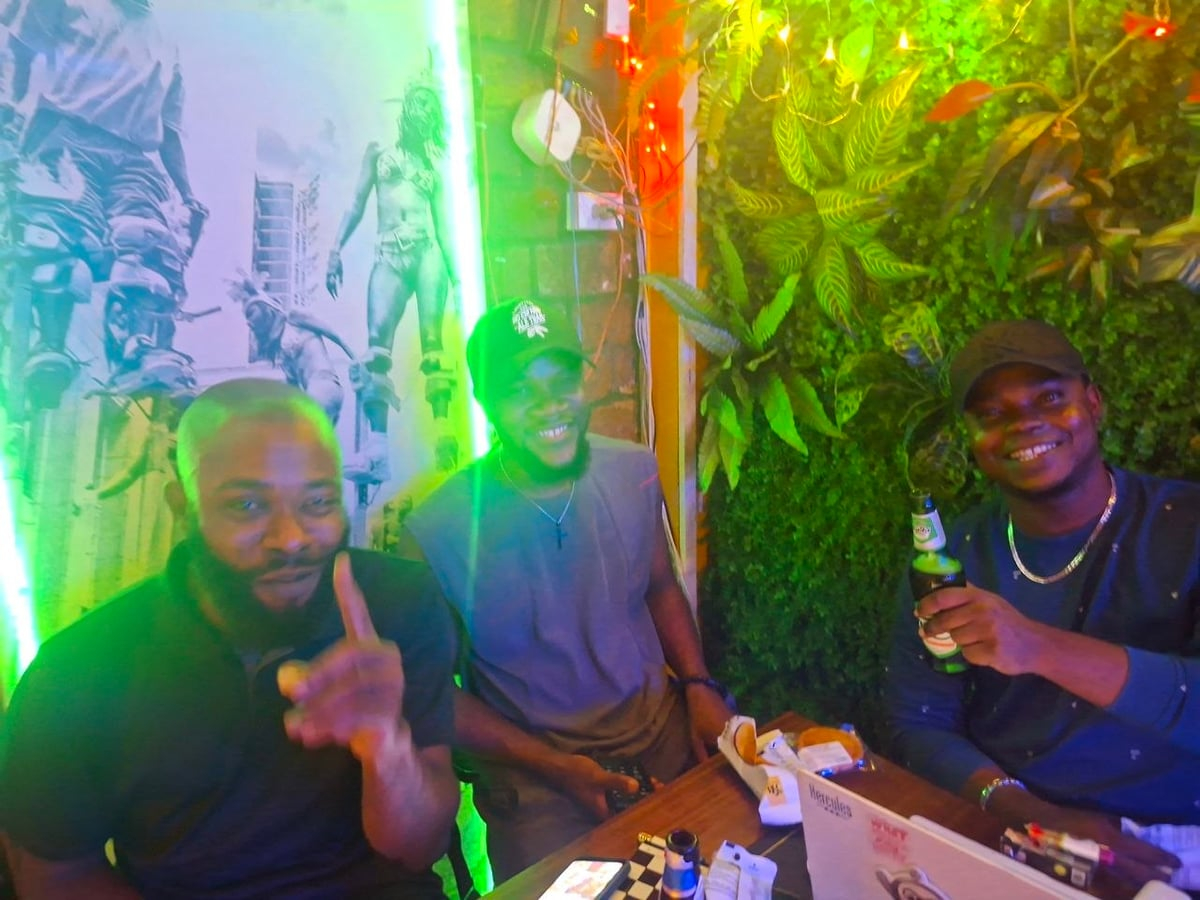
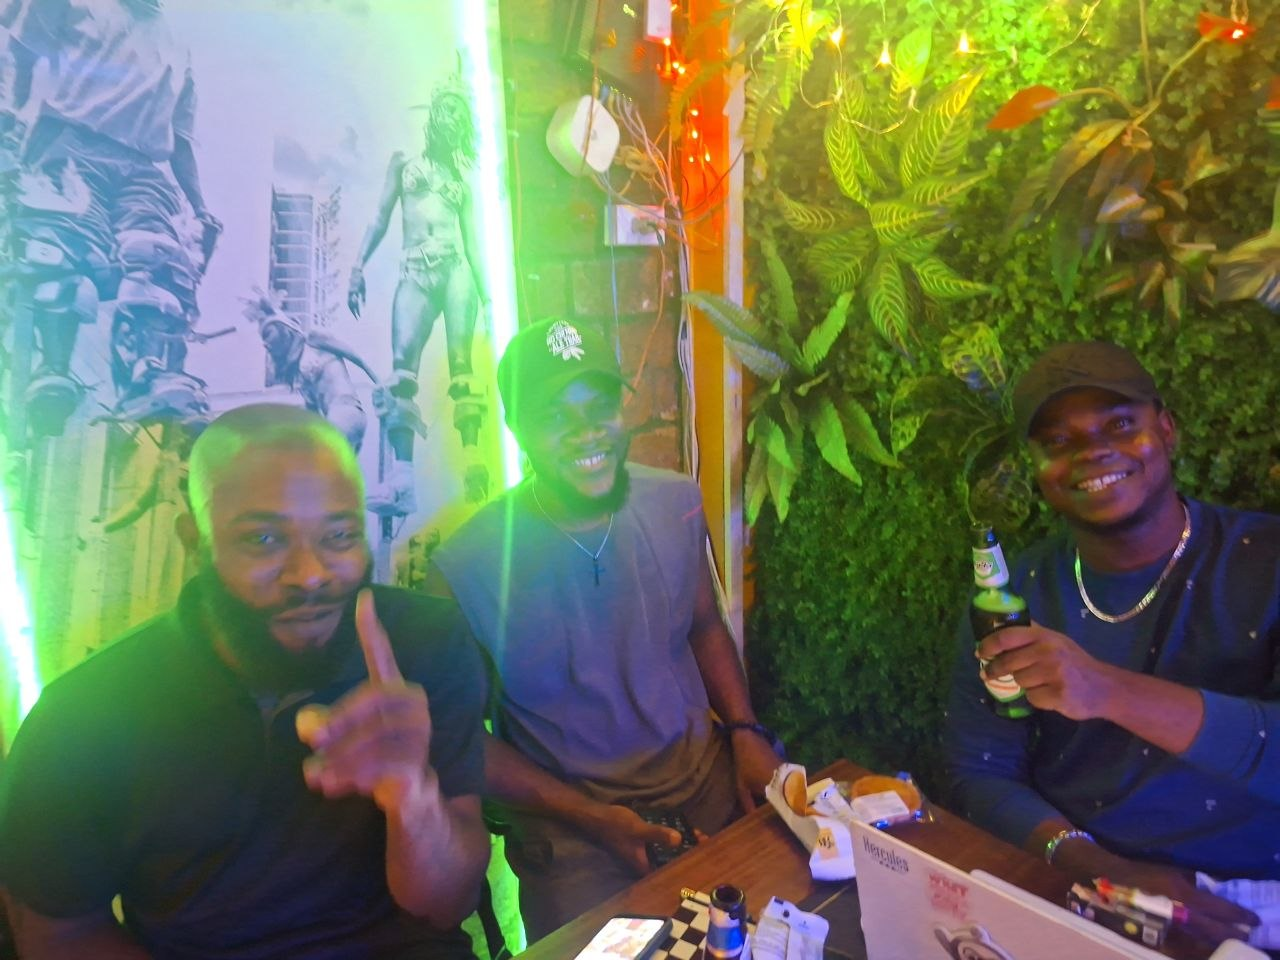
feat(mailala3): capture true branding — vibe photo gallery with bar atmosphere, dartboard, anti-drug poster

diff --git a/WEBSITE/mailala/index.html b/WEBSITE/mailala/index.html
@@ -84,7 +84,7 @@
 </nav>
 
 <section class="hero">
-      <div class="hero-bg" style="background-image:url('assets/images/6134195124376899495_121.jpg')" role="img" aria-label="Mai Lala reggae bar interior with warm neon lights"></div>
+      <div class="hero-bg" style="background-image:url('assets/images/6134195124376899531_121.jpg')" role="img" aria-label="Mailala reggae bar interior with colorful neon lights and mural"></div>
   <div class="hero-overlay"></div>
   <div class="hero-bigup">🔥 Big Up</div>
   <div class="hero-content">
@@ -103,6 +103,7 @@
         <span>🔥 Big Up</span>
         <span>🚫 Say No to Drugs</span>
         <span>🌿 Real Vibes Only</span>
+        <span>🪴 Plants Are Not Ashtrays</span>
       </div>
       <div class="cta-group">
         <a href="#book" class="btn btn-primary">Book Your Stay</a>
@@ -131,38 +132,24 @@
 <section class="vibe-section" id="vibe">
   <div class="container">
     <div class="badge">Love Up · Bless Up · Irie Up · Big Up</div>
-    <h2>Saigon's Premier<br><span class="highlight">Reggae Rooftop</span></h2>
-    <p class="section-sub">Cold beer, good people, island energy. Walk in solo, leave with a crew.</p>
-    <div class="vibe-grid">
-      <div class="vibe-card">
-        <div class="vibe-icon">🍺</div>
-        <h3>Cold Beer</h3>
-        <p>Saigon draft from 15k. Cocktails. Rum. Shots. Happy hour 5–7pm.</p>
+    <h2>This Is <span class="highlight">Mailala</span></h2>
+    <p class="section-sub">Reggae mural. Dartboard. Cold beer. Real plants. No drugs. Just vibes.</p>
+    <div class="vibe-gallery">
+      <div class="vibe-photo vibe-photo-main">
+        <div class="vibe-img" style="background-image:url('assets/images/6134195124376899503_121.jpg')" role="img" aria-label="Friends enjoying beer and games at Mailala bar"></div>
+        <div class="vibe-caption">🍺 Cold Beer & Good Company</div>
       </div>
-      <div class="vibe-card">
-        <div class="vibe-icon">🎵</div>
-        <h3>Live Music</h3>
-        <p>Reggae, Afrobeats, Calypso, Jazz. Local & international artists.</p>
+      <div class="vibe-photo">
+        <div class="vibe-img" style="background-image:url('assets/images/6134195124376899505_121.jpg')" role="img" aria-label="Bar atmosphere with dartboard and reggae decor"></div>
+        <div class="vibe-caption">🎯 Darts & Reggae</div>
       </div>
-      <div class="vibe-card">
-        <div class="vibe-icon">🎯</div>
-        <h3>Games & Vibes</h3>
-        <p>Darts, pool, beer pong, karaoke. Every night is a vibe.</p>
+      <div class="vibe-photo vibe-photo-tall">
+        <div class="vibe-img" style="background-image:url('assets/images/6134195124376899510_121.jpg')" role="img" aria-label="Drugs steal your dreams anti-drug poster at Mailala"></div>
+        <div class="vibe-caption">🚫 Drugs Steal Your Dreams</div>
       </div>
-      <div class="vibe-card">
-        <div class="vibe-icon">🌅</div>
-        <h3>Skyline View</h3>
-        <p>Sweeping Saigon skyline from the rooftop. Sunset beers. Every night.</p>
-      </div>
-      <div class="vibe-card">
-        <div class="vibe-icon">🕺</div>
-        <h3>Dance Night</h3>
-        <p>Afrobeats, reggae, calypso. The roof comes alive after 10pm.</p>
-      </div>
-      <div class="vibe-card">
-        <div class="vibe-icon">🥟</div>
-        <h3>Street Food</h3>
-        <p>Bui Vien at your doorstep. Or eat upstairs at our rooftop kitchen.</p>
+      <div class="vibe-photo">
+        <div class="vibe-img" style="background-image:url('assets/images/6134195124376899495_121.jpg')" role="img" aria-label="Mailala reggae bar interior with mural and neon lights"></div>
+        <div class="vibe-caption">🎵 Live Reggae Vibes</div>
       </div>
     </div>
   </div>
@@ -352,22 +339,22 @@
   <div class="container">
     <div class="badge">🎵 Live Reggae · Afrobeats · Calypso</div>
     <h2>The Rooftop<br><span class="highlight">Experience</span></h2>
-    <p class="section-sub">Sweeping skyline views, cold drinks, and the best island energy in Saigon.</p>
+    <p class="section-sub">Sweeping skyline views, cold drinks, and the best island energy in Saigon. Colorful lights, reggae mural, plants, and good vibes.</p>
     <div class="rooftop-gallery">
       <div class="gallery-item gallery-main">
-        <div class="gallery-img" style="background-image:url('assets/images/6134195124376899513_121.jpg')" role="img" aria-label="Rooftop bar view with reggae atmosphere"></div>
+        <div class="gallery-img" style="background-image:url('assets/images/6134195124376899528_121.jpg')" role="img" aria-label="Rooftop terrace with colorful string lights and plants"></div>
       </div>
       <div class="gallery-item">
-        <div class="gallery-img" style="background-image:url('assets/images/6134195124376899514_121.jpg')" role="img" aria-label="Rooftop bar seating area with island vibes"></div>
+        <div class="gallery-img" style="background-image:url('assets/images/6134195124376899530_121.jpg')" role="img" aria-label="Rooftop view with traditional architecture and string lights"></div>
       </div>
       <div class="gallery-item">
-        <div class="gallery-img" style="background-image:url('assets/images/6134195124376899515_121.jpg')" role="img" aria-label="Evening reggae night at the rooftop"></div>
+        <div class="gallery-img" style="background-image:url('assets/images/6134195124376899531_121.jpg')" role="img" aria-label="Reggae mural and colorful neon interior"></div>
       </div>
       <div class="gallery-item">
-        <div class="gallery-img" style="background-image:url('assets/images/6134195124376899512_121.jpg')" role="img" aria-label="Cold beer and good vibes on the rooftop"></div>
+        <div class="gallery-img" style="background-image:url('assets/images/6134195124376899513_121.jpg')" role="img" aria-label="Rooftop bar view with reggae atmosphere" loading="lazy"></div>
       </div>
       <div class="gallery-item">
-        <div class="gallery-img" style="background-image:url('assets/images/6134195124376899511_121.jpg')" role="img" aria-label="Saigon skyline view from the rooftop bar"></div>
+        <div class="gallery-img" style="background-image:url('assets/images/6134195124376899514_121.jpg')" role="img" aria-label="Rooftop bar seating area with island vibes" loading="lazy"></div>
       </div>
     </div>
     <div class="gallery-cta">

diff --git a/WEBSITE/mailala/style.css b/WEBSITE/mailala/style.css
@@ -392,6 +392,60 @@ section h2 {
   line-height: 1.5;
 }
 
+.vibe-gallery {
+  display: grid;
+  grid-template-columns: 1fr;
+  gap: 16px;
+  margin-top: 32px;
+}
+
+@media (min-width:860px) {
+  .vibe-gallery {
+    grid-template-columns: 2fr 1fr 1fr;
+    grid-template-rows: 240px 240px;
+  }
+}
+
+.vibe-photo {
+  position: relative;
+  border-radius: var(--radius);
+  overflow: hidden;
+  border: 3px solid var(--text);
+}
+
+.vibe-photo-main {
+  grid-row: 1 / 3;
+}
+
+@media (max-width:860px) {
+  .vibe-photo-main { grid-row: auto; }
+}
+
+.vibe-img {
+  width: 100%;
+  height: 100%;
+  min-height: 220px;
+  background-size: cover;
+  background-position: center;
+  transition: transform .4s;
+}
+
+.vibe-img:hover { transform: scale(1.03); }
+
+.vibe-caption {
+  position: absolute;
+  bottom: 0;
+  left: 0;
+  right: 0;
+  padding: 12px 16px;
+  background: rgba(26,23,20,.85);
+  color: var(--white);
+  font-weight: 700;
+  font-size: .9rem;
+  backdrop-filter: blur(8px);
+  border-top: 2px solid var(--text);
+}
+
 .jerk-section {
   background: var(--cream);
   text-align: center;
